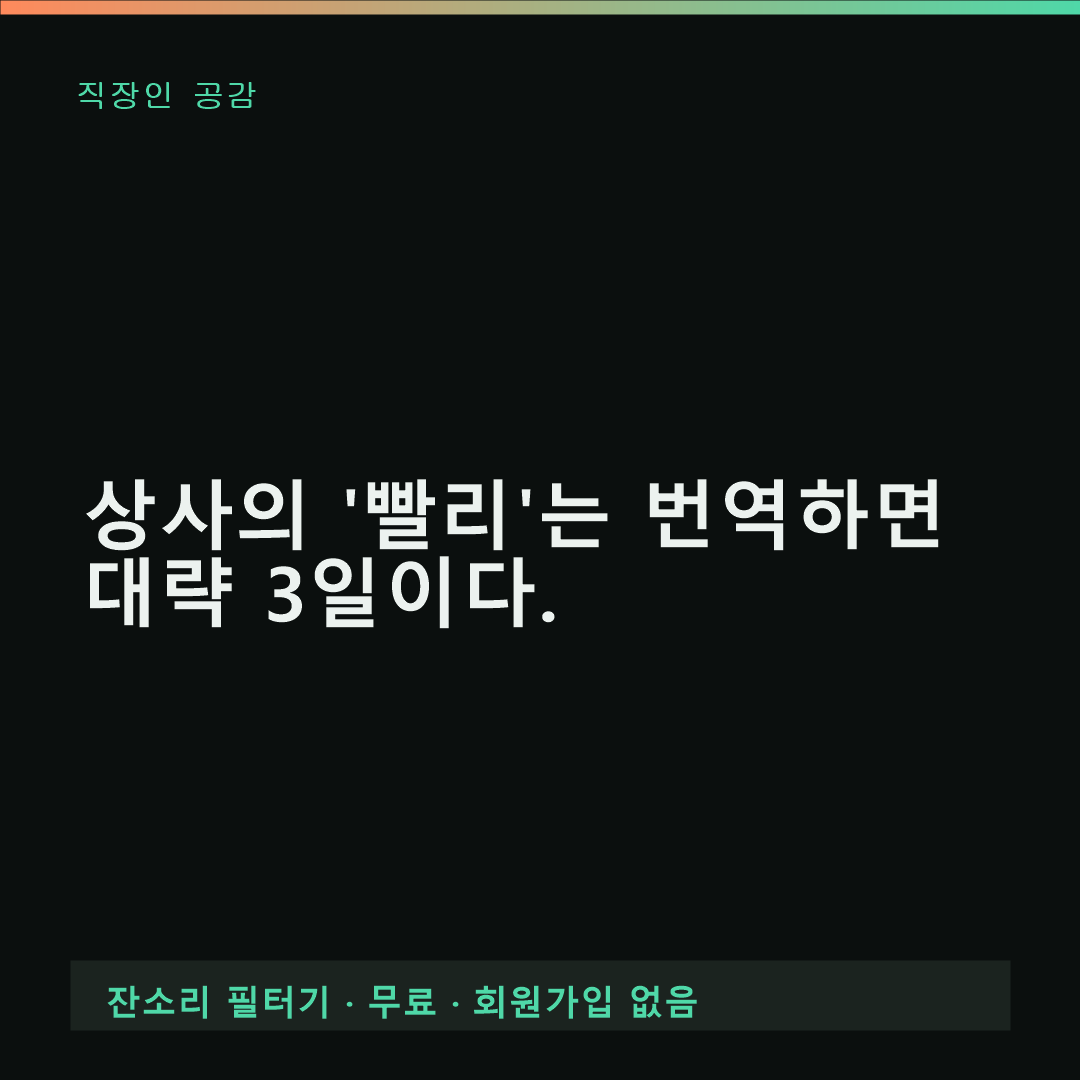
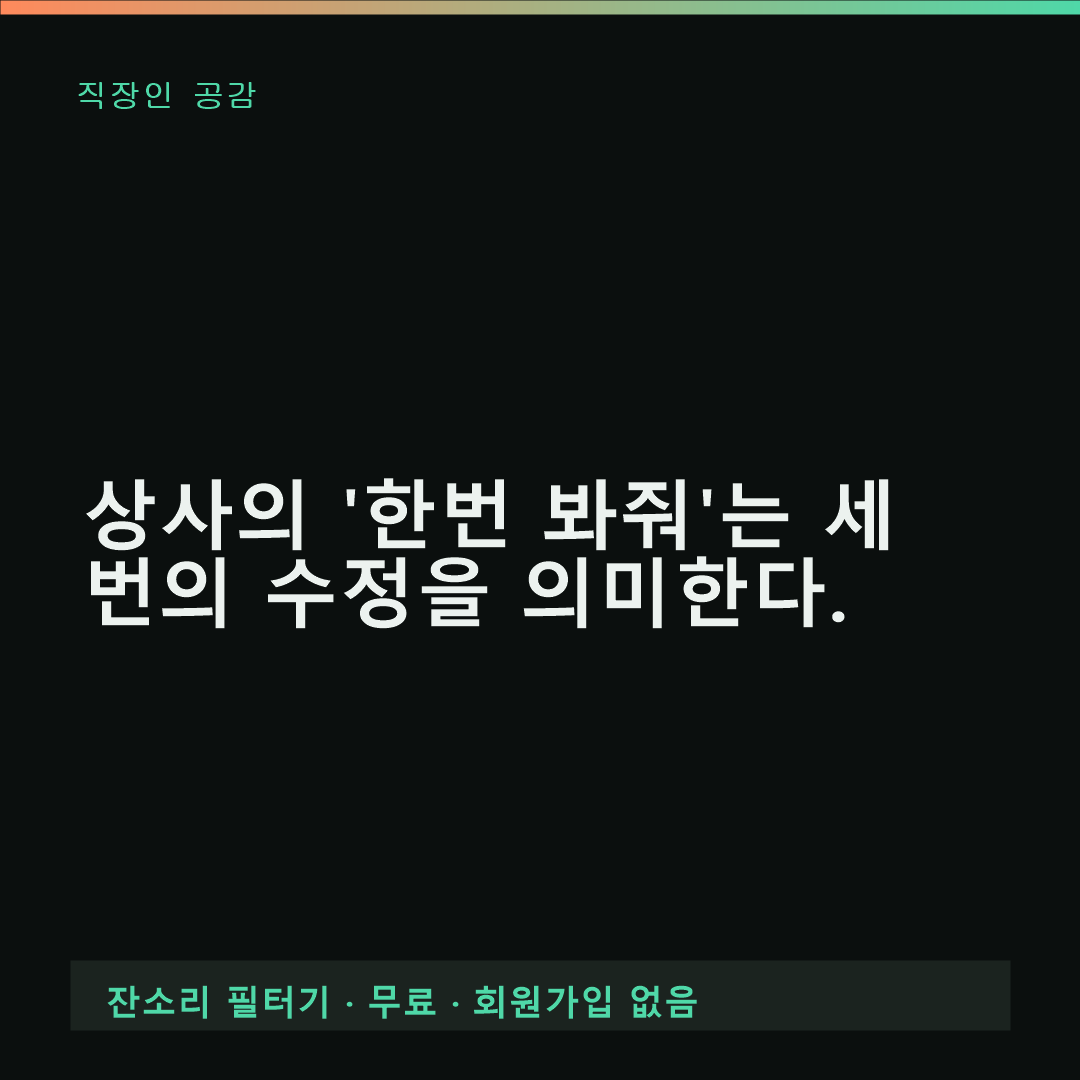
Fix card-news repeating same content across days
Random selection had no memory of prior picks, so with only 10
quotes/3 examples in the pool it could (and did) repeat the same
quote across separate days. Expanded the pools and added a
shuffle-bag mechanism (card-news/.state.json, gitignored) so every
quote/example is used once before any repeat.

Changed region(s): [[0.2444, 0.4278, 0.8861, 0.5806], [0.0611, 0.5194, 0.2139, 0.5806]]

diff --git a/card-news/index.html b/card-news/index.html
@@ -23,8 +23,8 @@
       <h1>오늘의 카드뉴스</h1>
       <div class="date">2026-07-21 생성 · 매일 아침 자동 갱신</div>
     </div>
-    <img src="latest.png?v=20260721_075611" alt="오늘의 카드뉴스 이미지">
-    <div class="caption-box" id="caption">상사의 '빨리'는 번역하면 대략 3일이다. 🙃<br><br>상사 잔소리, 이제 순화해서 답장하세요.<br>무료 · 회원가입 없음 · 링크는 프로필에 👆<br><br>#직장인공감 #직장인밈 #오피스라이프 #퇴사각 #월급루팡 #상사잔소리</div>
+    <img src="latest.png?v=20260721_083331" alt="오늘의 카드뉴스 이미지">
+    <div class="caption-box" id="caption">상사의 '한번 봐줘'는 세 번의 수정을 의미한다. 🙃<br><br>상사 잔소리, 이제 순화해서 답장하세요.<br>무료 · 회원가입 없음 · 링크는 프로필에 👆<br><br>#직장인공감 #직장인밈 #오피스라이프 #퇴사각 #월급루팡 #상사잔소리</div>
     <button id="copyBtn" type="button">캡션 복사하기</button>
     <a class="back" href="/">← 잔소리 필터기로 가기</a>
   </div>